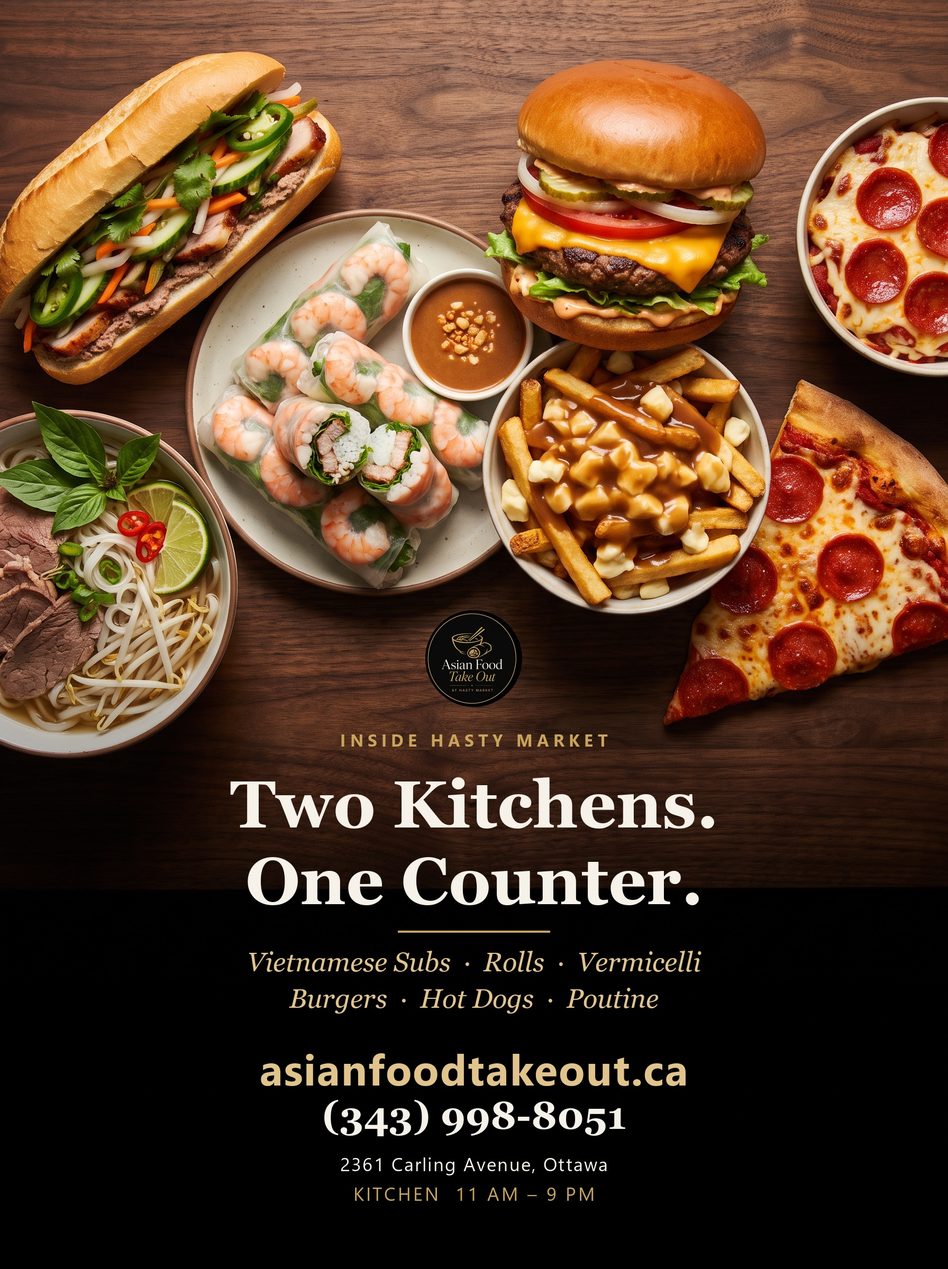
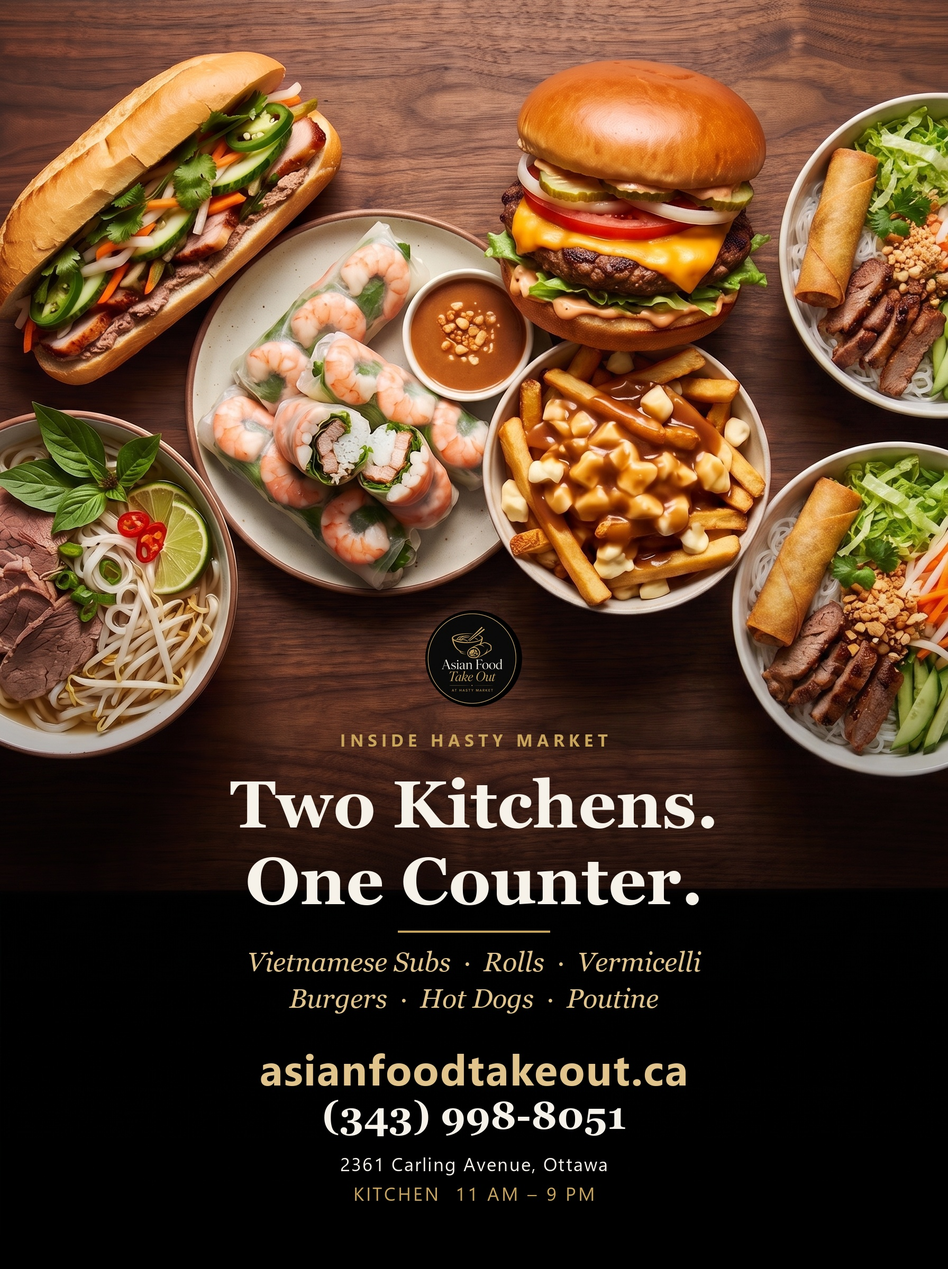
Regenerate p3-mixed without pizza
The pizza pan and the slice are now vermicelli bowls; the banh mi, fresh
rolls, cheeseburger, poutine and pho are unchanged, as is the empty lower
band the type is anchored into. Fixes POSTER-two-kitchens and, since it
shares the frame, ROAD-B.

The first attempt said "keep every other element" and the model quietly
deleted the cheeseburger — on a poster that advertises burgers. Naming
each dish to keep, individually and with its position, fixed it. That is
written down in the README so the next frame does not cost two runs.

WINDOW-B still shows pizza in p2-comfort.png while its copy no longer
mentions it, so it contradicts itself and should not be printed yet.
Left alone on purpose: only the poster was asked for.

diff --git a/marketing/README.md b/marketing/README.md
@@ -5,11 +5,11 @@ one on the **window**. These are the candidates — pick one of each.
 
 | File | For | What it says | Ready? |
 | --- | --- | --- | --- |
+| `POSTER-two-kitchens.jpg` | Handbill / board | Full info, both menus | **Yes** |
 | `ROAD-A-vietnamese.jpg` | Roadside | One hero sub. "VIETNAMESE SUBS" | **Yes** |
-| `ROAD-B-everything.jpg` | Roadside | Both menus. "ASIAN FOOD & MORE" | Photo shows pizza |
+| `ROAD-B-everything.jpg` | Roadside | Both menus. "ASIAN FOOD & MORE" | **Yes** |
 | `WINDOW-A-asian.jpg` | Window | Asian menu, dish list, hours | **Yes** |
 | `WINDOW-B-comfort.jpg` | Window | Burgers/hot dogs/poutine, hours | Photo shows pizza |
-| `POSTER-two-kitchens.jpg` | Handbill / board | Full info, both menus | Photo shows pizza |
 | `05-business-card-with-bleed.jpg` | Print shop | Card with bleed | **Yes** |
 | `05-business-card-trim.jpg` | Preview only | Card as cut | **Yes** |
 
@@ -23,45 +23,35 @@ the two menus it joins the Vietnamese line rather than standing among the
 burgers and poutine. On the road signs, which have only one "and also" line, it
 leads that line.
 
-**Three pieces still show pizza in the photograph.** The type is drawn here in
-Python, but the food photography is generated, and `p3-mixed.png` and
-`p2-comfort.png` each contain pizza that cannot be typeset away:
+`p3-mixed.png` has been **regenerated without pizza** — the pizza pan and the
+slice are now two vermicelli bowls, and everything else in the frame is
+unchanged. That fixes both pieces that used it, `POSTER-two-kitchens` and
+`ROAD-B`. The original pizza version is in git history at commit `0e7ffcb` if
+it is ever needed back.
 
-- `p3-mixed.png` — a pizza pan top right and a large slice centre right
-  (used by `ROAD-B` and `POSTER-two-kitchens`)
-- `p2-comfort.png` — two slices centre right (used by `WINDOW-B`)
+**One piece still shows pizza: `WINDOW-B-comfort.jpg`.** Its background
+`p2-comfort.png` has two slices centre right. Its *copy* no longer mentions
+pizza, so the sign contradicts itself and should not be printed as-is. It was
+left alone deliberately — only the poster was asked for. Fixing it is the same
+one-step edit described below, pointed at `p2-comfort.png`.
 
-Regenerating those two frames needs Higgsfield credits. Nothing else is
-blocked: `p4-roadsign.png`, `p1-asian.png` and `card-bg.png` never had pizza in
-them, so `ROAD-A`, `WINDOW-A` and the business card are finished and printable
-as they stand — one complete roadside option and one complete window option.
+### How the frame was fixed, and how to fix the next one
 
-Compositing a real photo of a vermicelli bowl over the pizza was tried and
-rejected: in both owner photos the bowl runs off the edge of the frame, so
-there is no whole bowl to cut out, and a half bowl dropped into a flat-lay
-reads as a mistake at print size.
+Edit the existing frame rather than generating a new one, so only the pizza
+changes and the rest of the composition survives. Model `nano_banana_pro`
+(`nano_banana_2`), 3:4, 2K, with the frame itself as the input image. Two
+things have to be spelled out or the model gets them wrong:
 
-### The regeneration, ready to run
+1. **Name every dish that must stay, individually.** The first attempt said
+   "keep every other element" and the model silently deleted the cheeseburger —
+   on a poster that advertises burgers. Listing the cheeseburger explicitly,
+   with its description and position, fixed it on the retry.
+2. **Say the lower third stays empty dark table.** The type is bottom-anchored
+   into that band; a frame with food low in the composition puts the phone
+   number on top of a burger.
 
-Edit `p3-mixed.png` rather than generating a new frame, so only the pizza
-changes and the rest of the composition survives. Model `nano_banana_pro`,
-3:4, 2K, with `p3-mixed.png` as the input image:
-
-> Using the supplied photograph, remove the two pepperoni pizza items — the
-> pizza pan at the top right edge and the large pizza slice at centre right —
-> and replace them with Vietnamese vermicelli bowls: rice vermicelli topped
-> with sliced grilled pork, a crisp fried spring roll, shredded lettuce, bean
-> sprouts, julienned pickled carrot and daikon, cucumber, fresh herbs and
-> crushed peanuts, in wide shallow bowls. Match the existing overhead flat-lay
-> perspective, the warm directional lighting and the soft shadows, and the dark
-> walnut table. Keep every other element exactly as it is: the banh mi at top
-> left, the plate of fresh shrimp rolls with peanut dipping sauce, the
-> cheeseburger, the poutine, and the pho bowl at bottom left. Keep the lower
-> third of the frame empty dark table — no food, no text.
-
-Save the result over `raw/p3-mixed.png` and re-run the script. The empty lower
-band matters: the type is bottom-anchored into it, and a frame with food low in
-the composition will put the phone number on top of a burger.
+Also add "no text or lettering anywhere in the image" — image models like to
+invent signage, and this frame sits under real typesetting.
 
 ## Why the two are laid out differently
 
